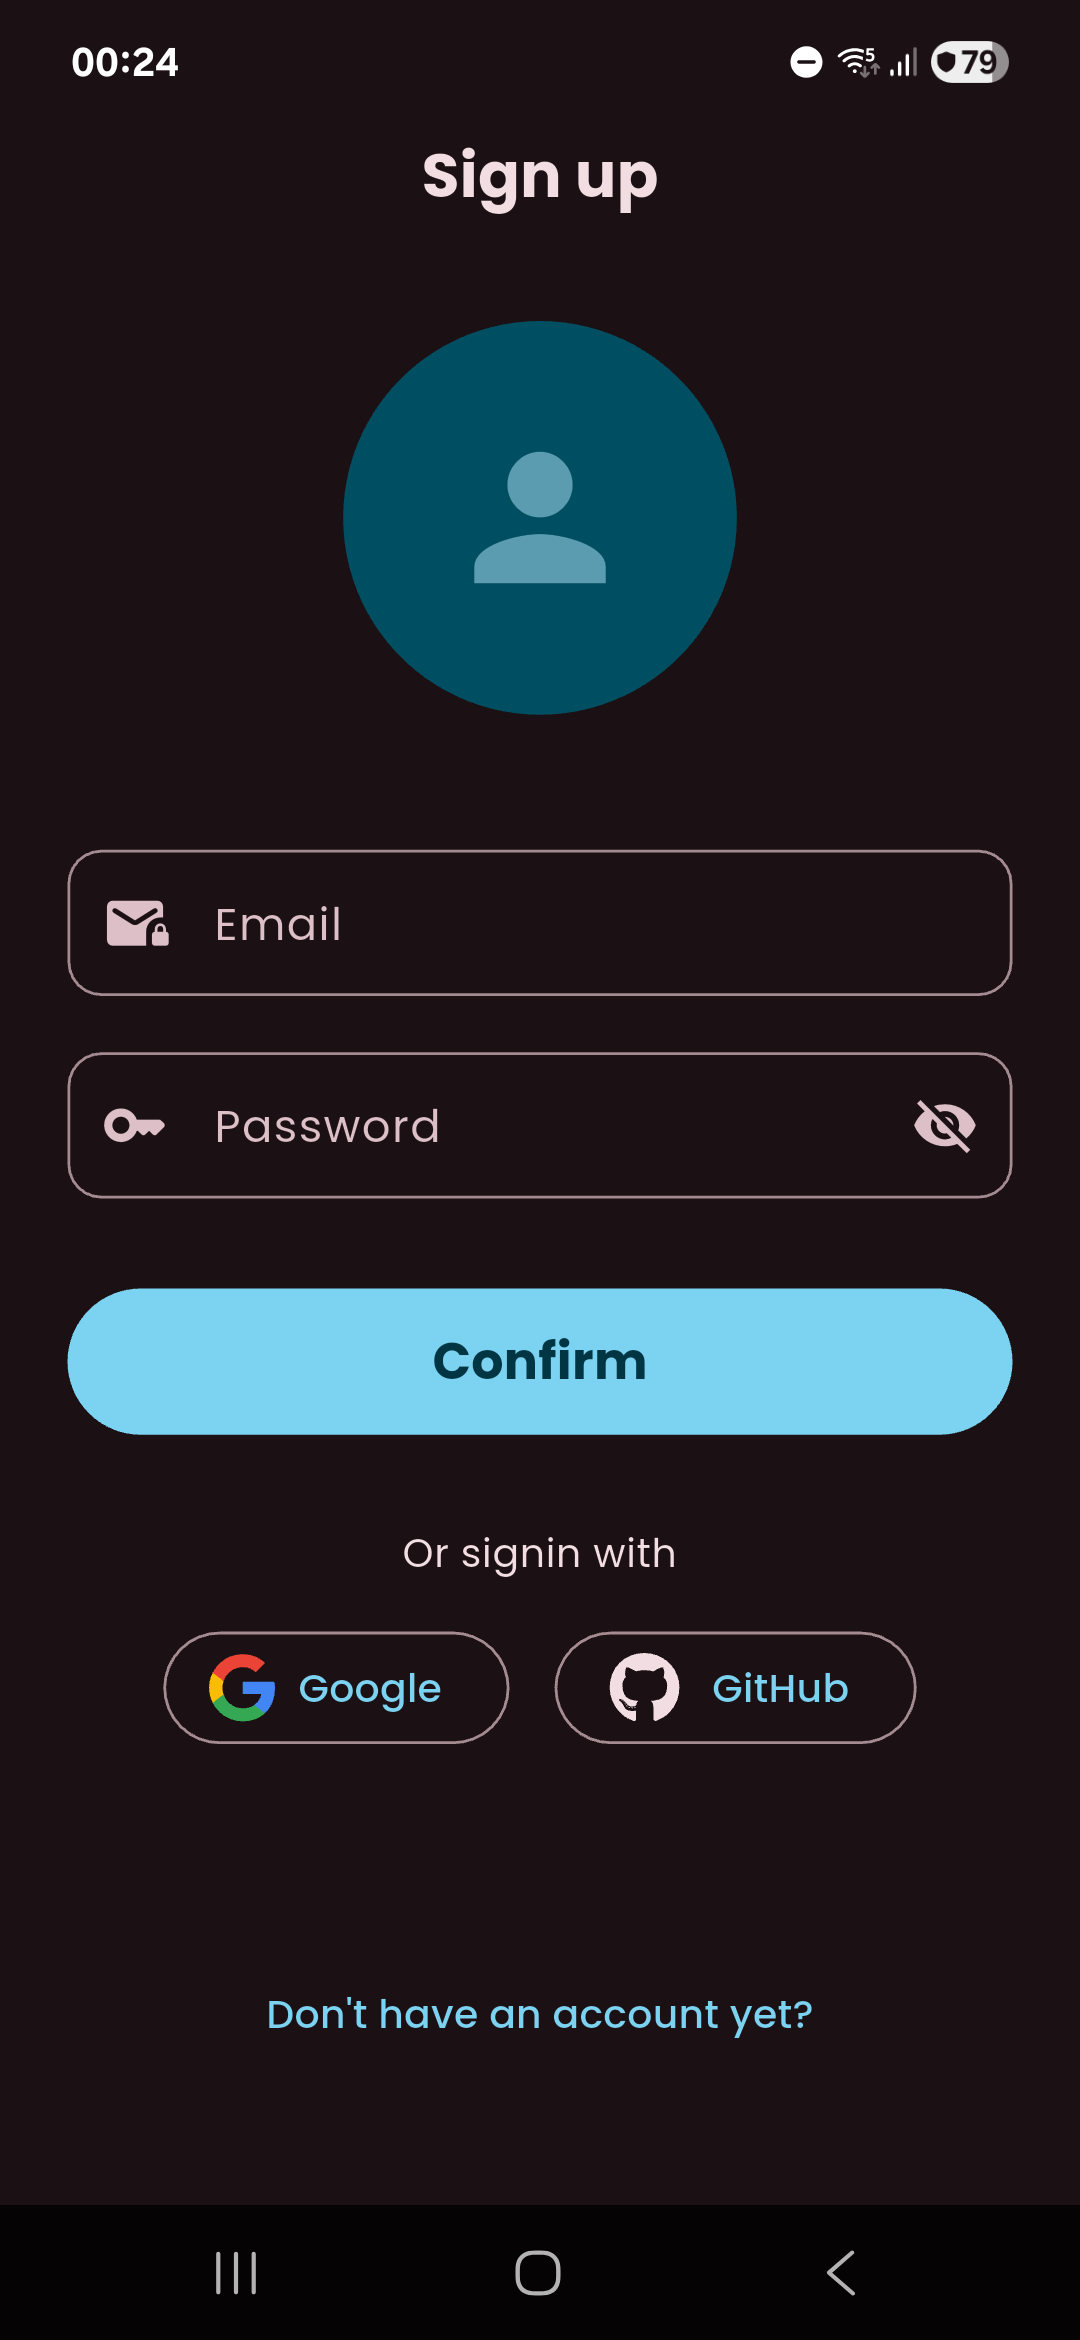
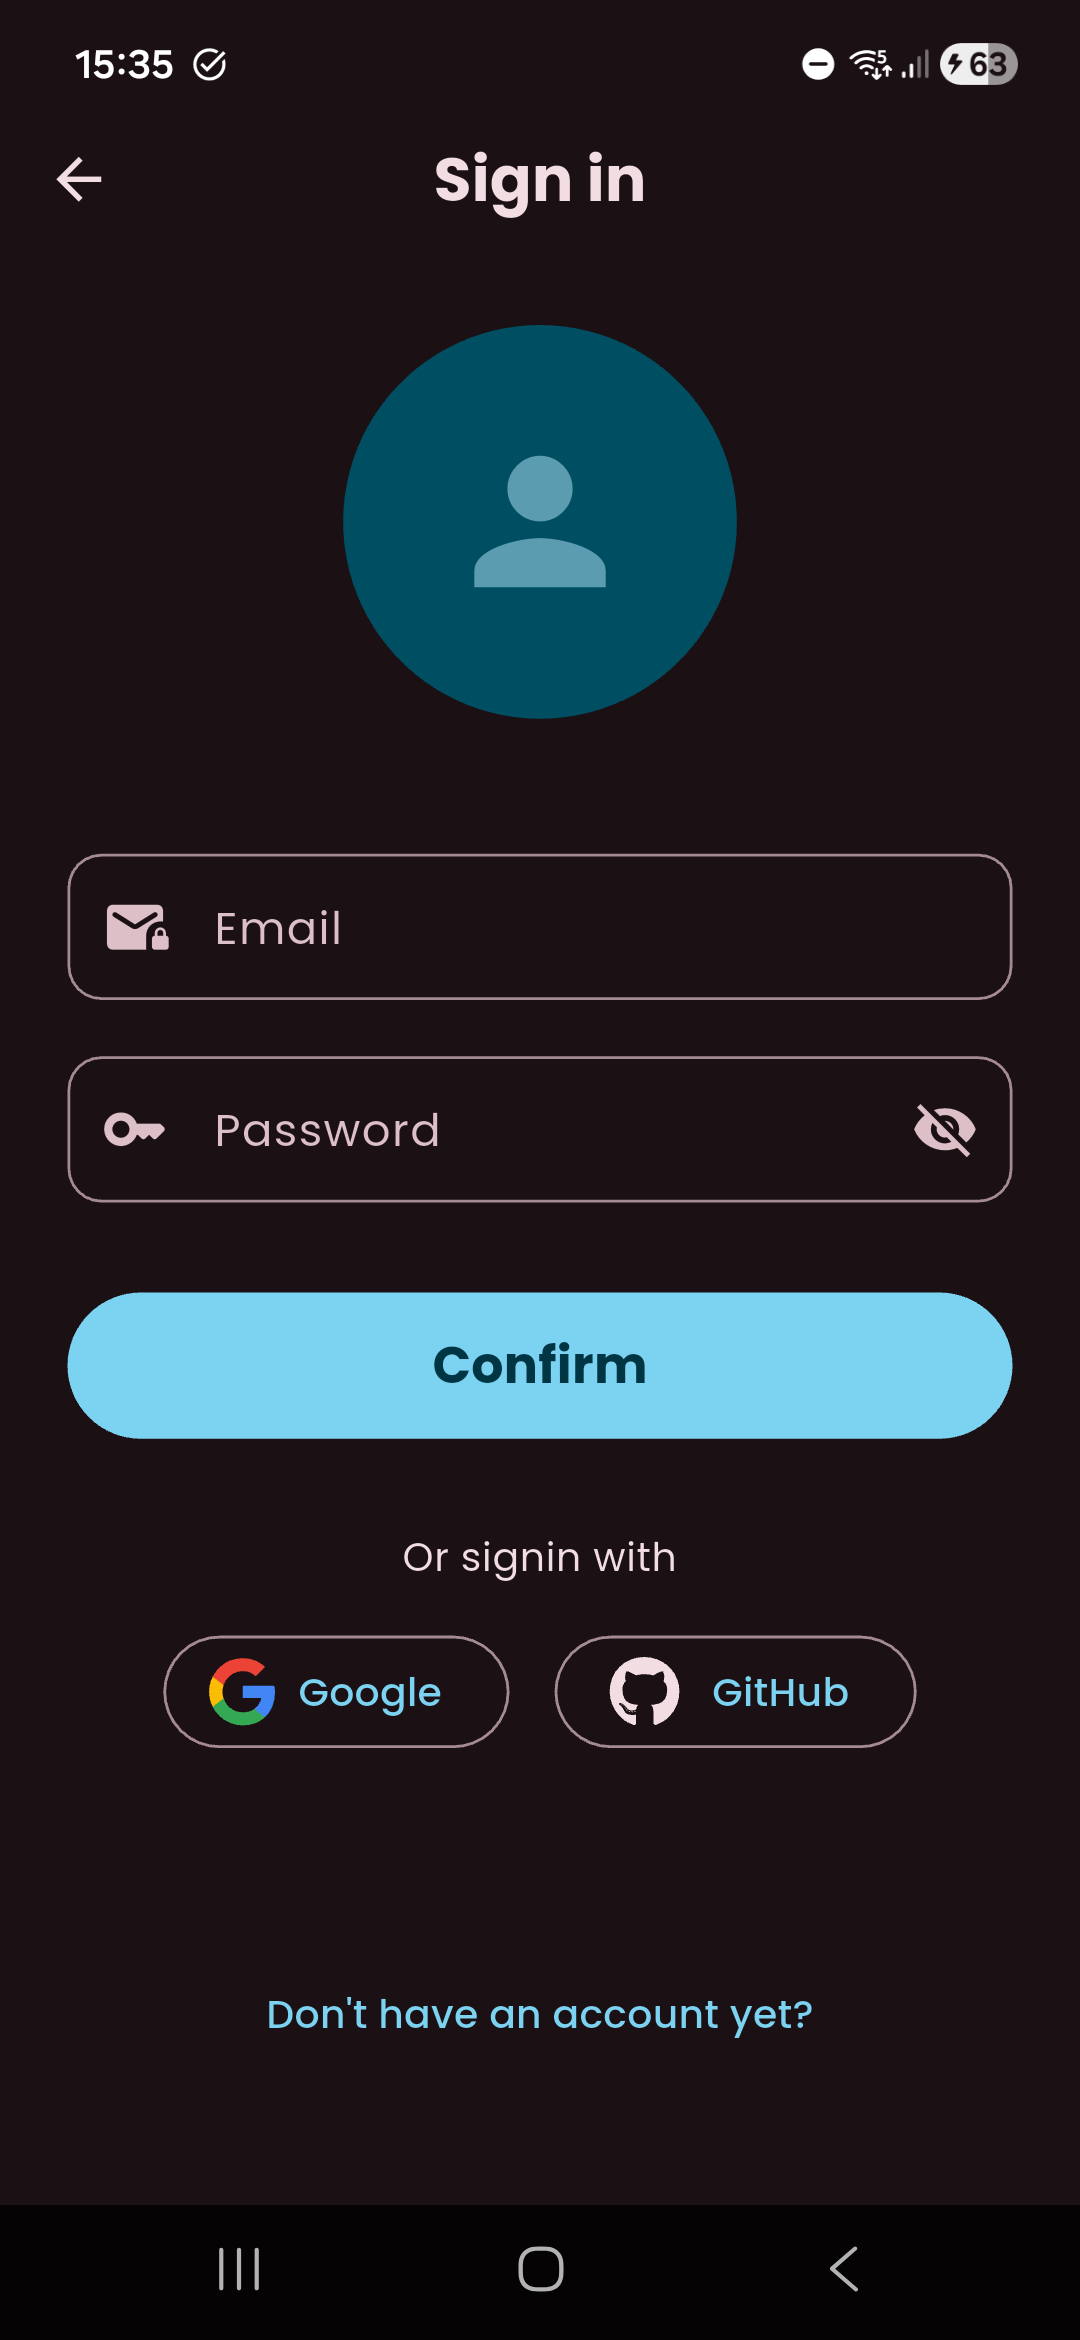
refac: título da app bar das telas de auth - Substitui string literal por argumento dinâmico para o título de MyAppBar em cada tela de autenticação. - Substitui as screenshots de /docs prejudicadas pelo erro visual.

diff --git a/lib/features/auth/widgets/auth_scaffold.dart b/lib/features/auth/widgets/auth_scaffold.dart
@@ -3,12 +3,17 @@ import 'package:knuckle_bones/core/presentation/widgets/my_app_bar.dart';
 import 'package:knuckle_bones/features/auth/widgets/main_content_builder.dart';
 
 class AuthScaffold extends StatelessWidget {
+  final String title;
   final Widget componentsColumn;
-  const AuthScaffold({super.key, required this.componentsColumn});
+  const AuthScaffold({
+    super.key,
+    required this.title,
+    required this.componentsColumn,
+  });
   @override
   Widget build(BuildContext context) {
     return Scaffold(
-      appBar: const MyAppBar(title: 'Sign in'),
+      appBar: MyAppBar(title: title),
       body: SafeArea(
         child: MainContentBuilder(componentsColumn: componentsColumn),
       ),

diff --git a/lib/features/auth/views/signup_view.dart b/lib/features/auth/views/signup_view.dart
@@ -150,6 +150,7 @@ class _SignupViewState extends State<SignupView> {
           GestureDetector(
             onTap: () => FocusScope.of(context).unfocus(),
             child: AuthScaffold(
+              title: 'Sign up',
               componentsColumn: _ComponentsColumn(
                 avatarSelector: avatarSelector,
                 formKey: _formKey,

diff --git a/lib/features/auth/views/signin_view.dart b/lib/features/auth/views/signin_view.dart
@@ -97,6 +97,7 @@ class _SigninViewState extends State<SigninView> {
           GestureDetector(
             onTap: () => FocusScope.of(context).unfocus(),
             child: AuthScaffold(
+              title: 'Sign in',
               componentsColumn: _ComponentsColumn(
                 formKey: _formKey,
                 getConfigs: _getConfigs,
